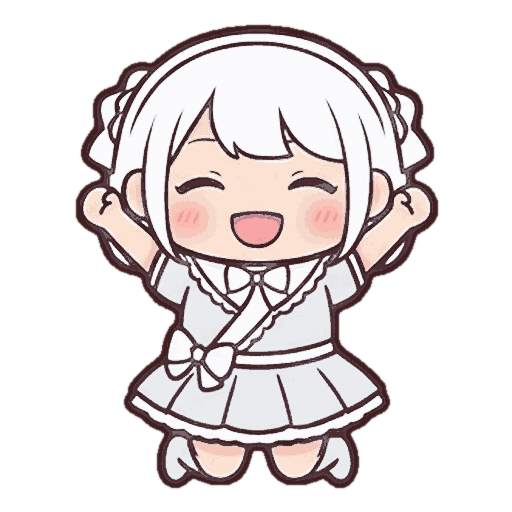
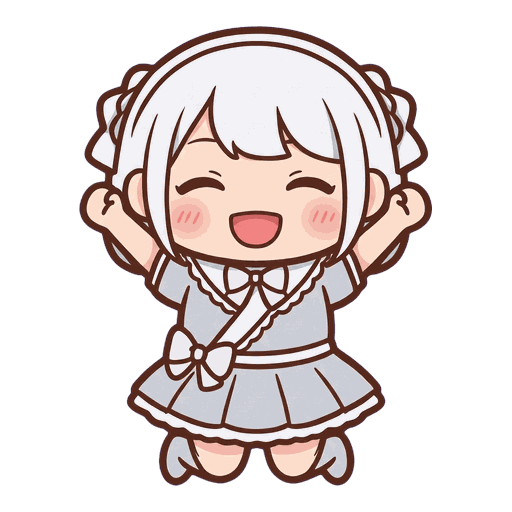
まなの結果のポーズを生成し直した絵に差し替える
- 加工で輪郭を濃くした版から、Antigravity で生成し直した版（線がくっきり）へ
- handoff.md にデプロイの記録とまなの作り直しの経緯を追記

Changed region(s): [[0.125, 0.0312, 0.875, 0.9688]]

diff --git a/docs/handoff.md b/docs/handoff.md
@@ -9,29 +9,25 @@
 
 ## いまの作業（2026-09-15 昼、ここから再開）
 
-- **ブランチ** `feature/ui-stylish-endless-fx`。コミット f6733f0（E+・1 分／エンドレス・スター飴・演出）の上に、**未コミットの変更が 46 ファイル**ある。push はしていない（main は 0d467f7 のまま）
-- **未コミットの中身**
+- **ブランチ** `feature/ui-stylish-endless-fx`。コミット f6733f0（E+・1 分／エンドレス・スター飴・演出）の上に 158335d（メンバー駒・既定をメンバーに）をコミット済み。push はしていない（main は 0d467f7 のまま）
+- **158335d の中身**
   - メンバー駒の表情 5 種類（通常・笑顔・はじけ顔・フィーバー顔・結果のポーズ）の仕組み：`js/skin.js`（`pop` `fever` `pose`）、`js/render.js`（フィーバー中はフィーバー顔、消えた駒は 0.14 秒はじけ顔で膨らむ）、結果画面の R11（推し色メンバーのポーズ）、`?pos=pop`
   - `scripts/prepare_piece.py`：`--grid` はキャラクターを塊で見つけて切り出す（生成画像は均等なマスになっていないため）、`--rows`（段の名前）、`--members`（1 人だけ作り直すとき）
   - `scripts/make_sample_faces.py` と `assets/skins/sample/kurumi_{pop,fever,pose}.png`（表示確認用の仮の絵）
   - `scripts/cdp-probe.mjs` の `--eval=` と `--shot=`（実時間の確認と撮影）
   - **メンバー駒の本物の絵 25 枚** `assets/skins/members/*.png`（Antigravity で生成 → 切り分け済み）。元画像は `raw/members_faces.png`（1200×896、5×4）と `raw/members_pose.png`（1376×384、5×1）。`raw/` と `sheet*.png` は git の対象外
   - `docs/member_pieces_gemini.md`（一括プロンプト、1 人だけ作り直す節、Antigravity への依頼文）
-- **まな（白）を作り直し中**
+- **まな（白）の作り直しは完了**
   - 問題：輪郭が薄い灰色で、淡いピンクの盤面の上で見えにくい。原因は一括プロンプトの「white with a light gray outline」（修正済み）
   - 2026-09-15 昼に `agy -p`（Antigravity CLI のヘッドレス実行）で作り直した。依頼文は `C:\Users\kawad\work\sandbox\lollpop_puzzle_eplus\agy_mana_prompt.txt`、agy の報告は同じフォルダの `agy_mana_out.txt`
   - **4 表情は済み**：`raw/mana_faces.png`（768×1376、agy が `~/.gemini/antigravity-cli/brain/…/mana_faces_*.jpg` に置いたものを PNG にした）→ 切り分けて `assets/skins/members/mana{,_happy,_pop,_fever}.png` を差し替え。輪郭は他の 4 人と同じ濃い茶色になり、盤面でも見える（撮影で確認）。旧いまなの絵は `sandbox/lollpop_puzzle_eplus/mana_old/`
     - 気になる点：フィーバー顔が星の目ではなく「><」の目になった。オーナーに見せて、気になるなら作り直す
-  - **ポーズは画像処理で仮に直した（2026-09-15 昼）**：生成が上限（429）で止まったため、オーナーの「今の素材で一旦作って」で、旧い絵を `sandbox/lollpop_puzzle_eplus/pose_try/darken_pose.py` で加工（灰色の線→濃い茶色、輪郭の外のもやを切る、外側に 2px の線を足す、灰色の服を白に寄せる）して `mana_pose.png` を差し替えた。結果画面で他の 4 人と同じ濃さに見えることを撮影で確認（`pose_try/result_cmp.png`）。旧い絵は `mana_old/`。**オーナー：「一旦それで」（2026-09-15）→ 加工版で確定、生成し直しはしない**
+  - **ポーズは生成し直した（2026-09-15 14:12）**：上限解除後に `agy --output-format json -p`（依頼文 `sandbox/lollpop_puzzle_eplus/agy_mana_pose_prompt.txt`、会話 ID bf3543ff-e675-4da2-b5b9-20e785e999b2）で 1024×1024 を生成 → `raw/mana_pose.png` → `prepare_piece.py --grid 1x1 --members mana --rows pose` で切り分けて差し替え。オーナーが加工版と比べて生成版を選んだ（線がくっきり、服は薄い灰色）
+    - それまでの加工版（旧い絵を `pose_try/darken_pose.py` で輪郭を濃くしたもの）は `sandbox/lollpop_puzzle_eplus/pose_try/mana_pose_processed_deployed.png`、旧い薄い絵は `mana_old/`
   - まなの 3 表情の上端に上の段の靴の切れ端が残っていた → `prepare_piece.py` の `keep_main_blob` で、切り出し範囲の端に触れる小片を捨てるように直し、切り直した
-  - **生成し直す場合の手順**（オーナーが加工版で不満なときだけ。依頼文は `sandbox/lollpop_puzzle_eplus/agy_mana_pose_prompt.txt`）
-    1. 14:00 以降に、`docs/member_pieces_gemini.md` の「1 人だけ作り直す」節のポーズのプロンプトで `agy -p` を実行する（`raw/members_pose.png` を添付、1:1。画像の生成だけさせる）
-    2. agy は画像を `~/.gemini/antigravity-cli/brain/<会話 ID>/` に jpg で置くので、それを `raw/mana_pose.png` に PNG で保存する
-    3. `python scripts/prepare_piece.py raw/mana_pose.png --grid 1x1 --members mana --rows pose --out assets/skins/members`
-    4. `node scripts/cdp-probe.mjs "http://127.0.0.1:8791/index.html?pos=result&skin=members" 3500 --shot=<png>` などで、結果画面のポーズを見る（まなが推し色になる状態は、`pos=result` の `cleared` を書き換えるか、実際に遊んで出す）
 - **そのあと**
   - `CONFIG.skin.default` を `members` にした（2026-09-15 オーナー指示）。端末に選択が保存されていない人はメンバーの駒で始まる。タイトルの説明文は「同じ色のロリポップを…」のまま（直すかはオーナー次第）
-  - コミット（指示があれば）→ Cloudflare プレビューに公開
+  - **コミット 158335d → Cloudflare プレビューに公開済み**（2026-09-15、オーナー指示。Version 93703fa7）。公開前に `.assetsignore` へ `raw` `sheet*.png` を足した（参照写真を公開しないため）。公開後に `/.git/HEAD` `/raw/…` `/sheet.png` が 404、既定がメンバーの駒になることを確認。**push はまだ**
   - push したら claude-work に判断待ちの Issue を立てる（未 push のうちはリンクが切れるので保留していた）
 - **この作業分の確認は済んだ**（2026-09-15）：参照写真は公式アー写、絵柄とフィーバー顔はこのまま、BGM は合成のオリジナル曲（下の「決定事項」）。結果画面のポーズが少し甘い件は「一旦それで」
 - **次**：BGM（Web Audio の合成曲）の実装、またはオンボーディング W／A キャンディポップ。どれからにするかオーナーに聞く
